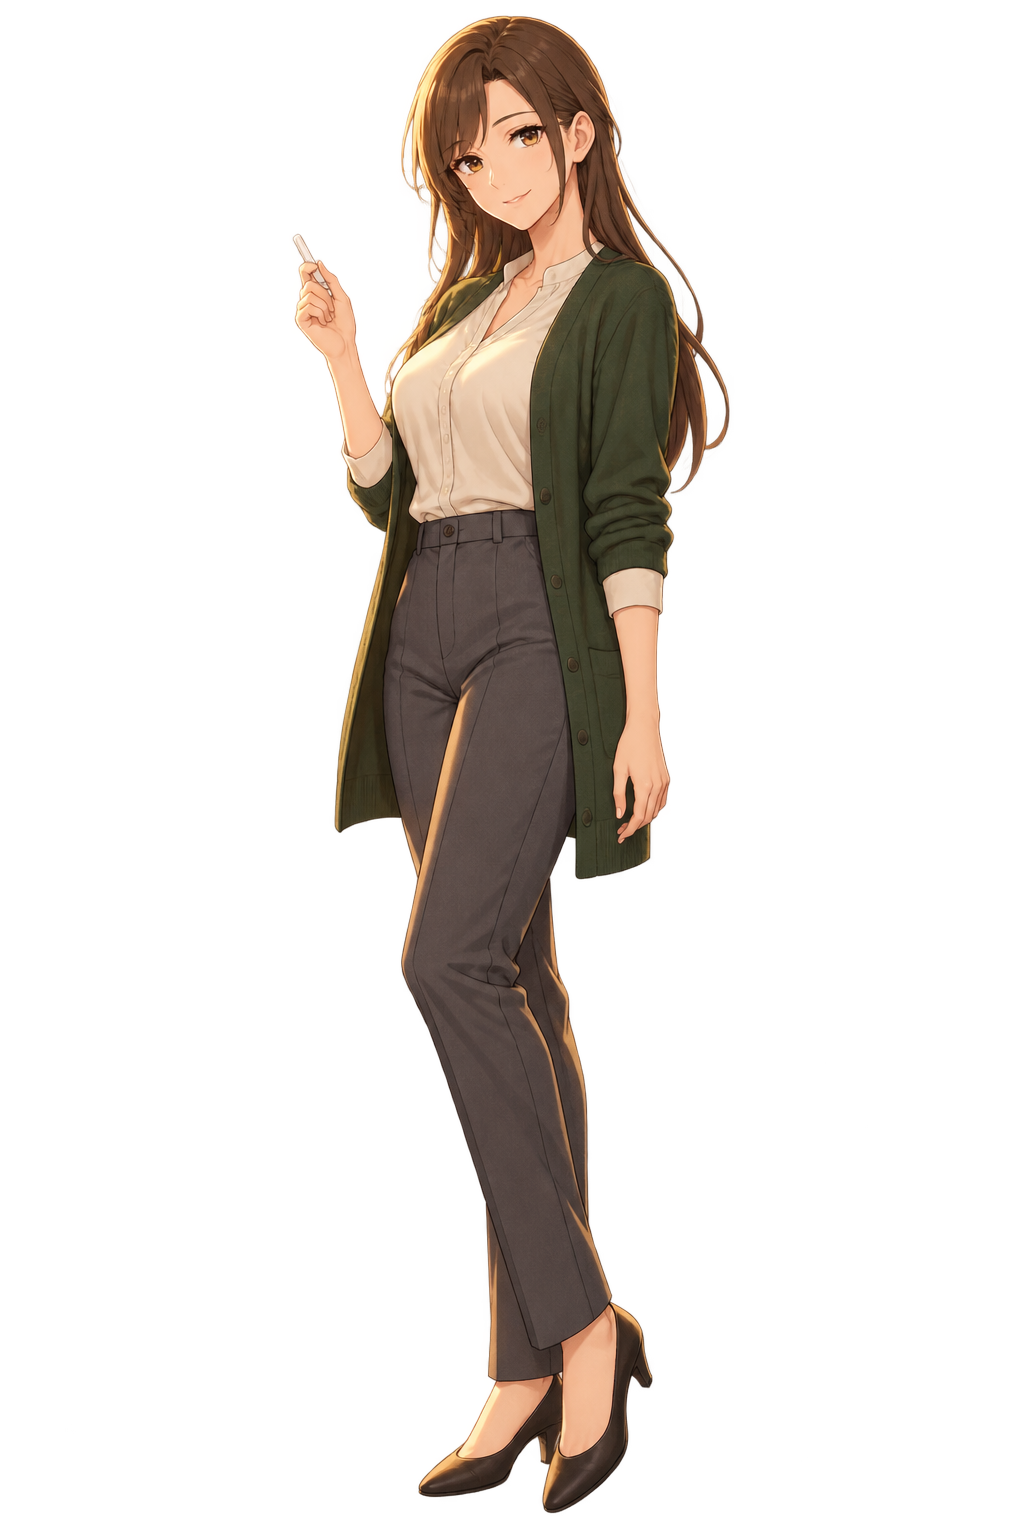
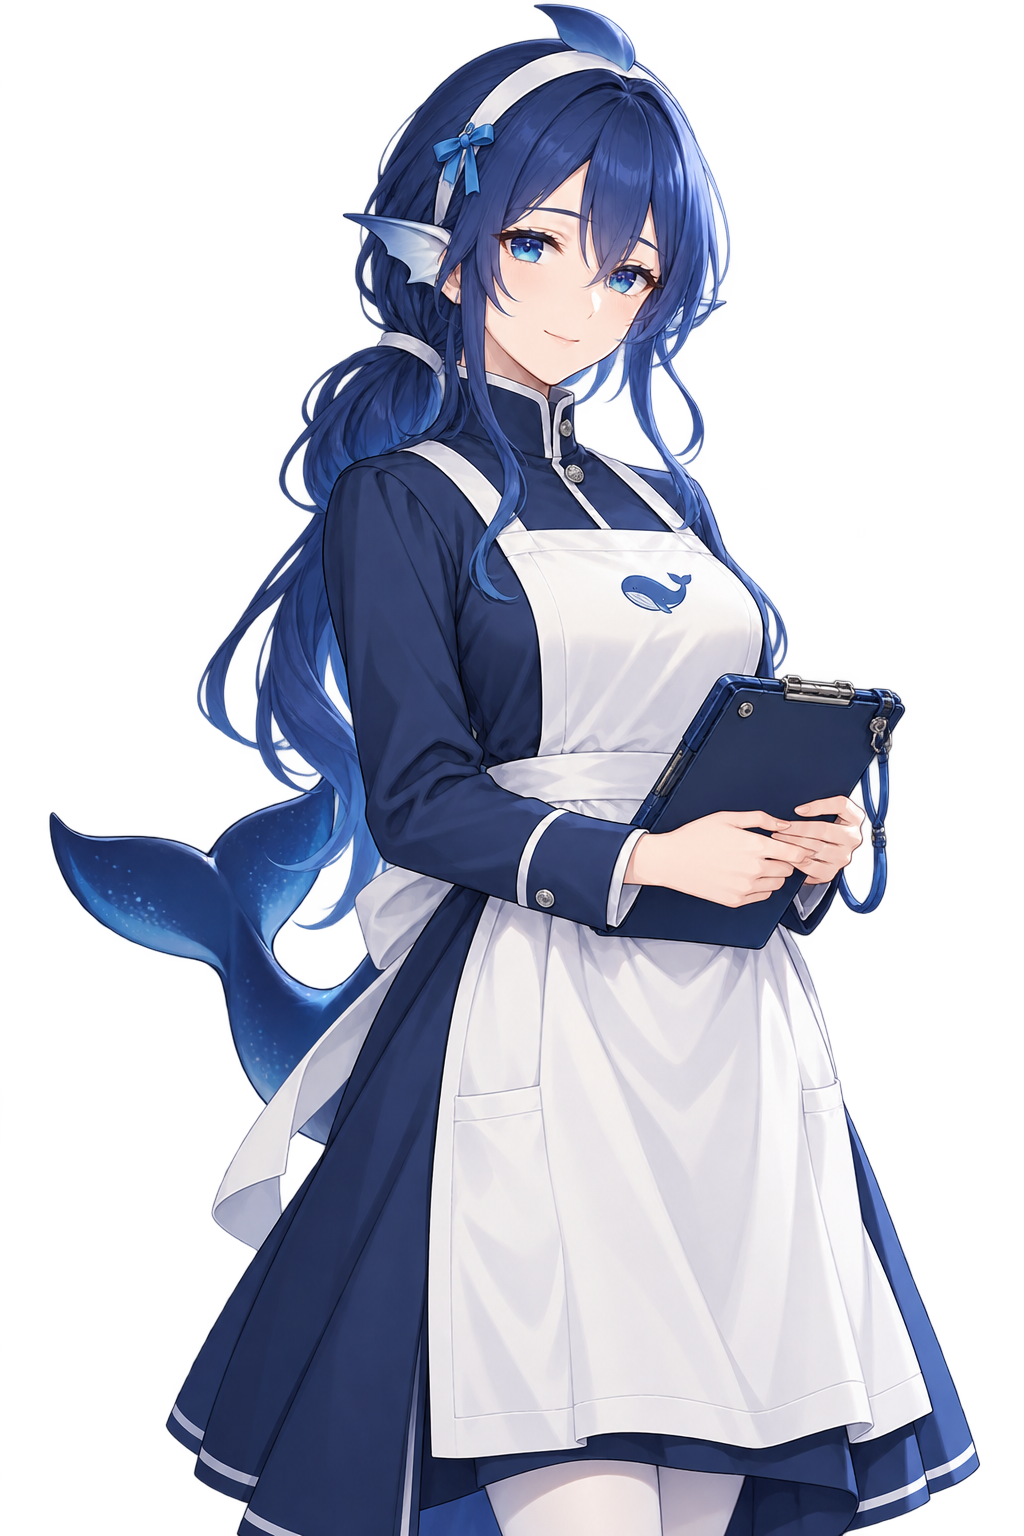
fix(client): 把工作区里改的舞台真正同步进仓库（此前入库的是 9-30 的旧副本）
🔴 这份包的权威源一直在 `开源线/DSH定制/code/clients/classroom-stage-warm/`（工作区），
而仓库里另有一份副本。之前所有改动（花饰、pointer-events、工具降噪、选项去重、
markdown 清理、换角后的立绘与背景）都只落在工作区那份上，`git add` 提交的是仓库副本——
所以「入库」实际上一条都没进去（仓库里的 teacher_gen.png 还是 9-30 的旧图，mtime 未变）。

本次用 rsync 把工作区同步进仓库（排除 shots/、measure/、ornaments/*.png 等可重生成的产物）：
- assets/stage/：classroom_wide.png（潮汐观测站背景）、teacher_gen.png（鲸 · 端庄版立绘）
- lib/client.js：花饰、`.oc` 的 pointer-events、工具行降噪、正文去重、选项去重、stripMarkdown
- lib/index.js：素材 manifest 带 rev（缓存破坏）
- ornaments/：夹具改用 teacher_gen.png；新增 strip 后的构建脚本

哈希核对：仓库与工作区的 teacher_gen.png 均为 ddac3950e33ef39d3bcfec9c036cccac。

diff --git a/clients/classroom-stage-warm/lib/client.js b/clients/classroom-stage-warm/lib/client.js
@@ -108,7 +108,10 @@ window.__ModuleLoader__.load({
   color:#F3E9DA;border-radius:999px;padding:.9vh 2.1vh;font-size:1.5vh;letter-spacing:.04em;cursor:pointer;
   transition:background 160ms,border-color 160ms}
 .stage-warm-root .tool:hover{background:rgba(243,233,218,.18);border-color:rgba(243,233,218,.42)}
-.stage-warm-root .cast{position:absolute;right:6.8vh;bottom:34vh;height:74vh;z-index:3;pointer-events:none;
+.stage-warm-root .cast{position:absolute;right:6.8vh;bottom:44vh;height:54vh;z-index:3;pointer-events:none;
+  /* 🔴 2026-10-19 改（立绘换成半身像后）：原来是 bottom:34vh / height:74vh —— 那是给「全身立绘」的，
+     全身图被纸带盖掉腿正好；换成半身（膝上）后同样的数会把躯干压到纸带下面，只剩一个头。
+     半身像要**贴纸带上沿**：纸带 48vh，所以 bottom 取 47vh（略嵌 1vh 免得悬空），高度取 52vh。 */
   filter:drop-shadow(0 -6px 34px rgba(0,0,0,.42))}
 .stage-warm-root .cast-strip{position:absolute;right:4.2vh;top:9.6vh;z-index:7;display:flex;flex-direction:column;
   gap:.8vh;align-items:flex-end;opacity:0;transition:opacity 240ms ease}
@@ -272,7 +275,7 @@ window.__ModuleLoader__.load({
   text-shadow:0 1px 0 rgba(243,233,218,.75)}
 
 /* ⑤ · 立绘入画：自下而上压暗，让立绘"落进"画面而不是贴上去 */
-.stage-warm-root .cast-wrap{position:absolute;right:12.05vh;bottom:0;z-index:3;pointer-events:none}
+.stage-warm-root .cast-wrap{position:absolute;right:12.05vh;bottom:44vh;z-index:3;pointer-events:none}
 .stage-warm-root .cast-wrap .cast{position:static;right:auto;bottom:auto;display:block}
 .stage-warm-root .cast-wrap::after{content:'';position:absolute;left:-3.7vh;right:-3.7vh;bottom:0;height:34%;
   background:linear-gradient(to top,rgba(10,12,16,.66),rgba(10,12,16,.22) 46%,rgba(10,12,16,0));
@@ -421,6 +424,51 @@ window.__ModuleLoader__.load({
         }
         return hits.length >= 2 ? hits.slice(0, 6) : []
       } catch { return [] }
+    }
+
+    /**
+     * 把正文**末尾连续**的编号清单行裁掉。
+     *
+     * 为什么只裁末尾：舞台会把可解析的编号清单渲染成选项卡片，正文里那份就是重复显示
+     * （实测同一个 1./2./3. 既在正文又在卡片里）。但正文**中间**的编号（教学步骤"第一步…
+     * 第二步…"）是内容，不能动 —— 所以只从末尾往上连续匹配，遇到第一行不是编号就停。
+     *
+     * @param {string} text - 老师这一句的正文
+     * @returns {string} 去掉末尾编号清单后的正文（全被裁则返回空串，由调用方决定怎么显示）
+     */
+    /**
+     * 去掉正文里的 markdown 标记。
+     *
+     * 为什么需要：老师（LLM）输出常带 `**粗体**`、`*斜体*`、行首 `#` 之类，而纸带是按**纯文本**
+     * 渲染的 —— 实测真机上出现 `**"……？"**` 这种星号裸露。本项目的排版纪律是「字重全部 400、
+     * 靠字号字距层级，不靠加粗」，所以正确做法是**把标记去掉**，不是渲染成粗体。
+     *
+     * @param {string} text
+     * @returns {string}
+     */
+    function stripMarkdown(text) {
+      return String(text || '')
+        .replace(/\*\*([^*]+)\*\*/g, '$1')   // **粗体**
+        .replace(/__([^_]+)__/g, '$1')          // __粗体__
+        .replace(/(^|[^*])\*([^*\n]+)\*/g, '$1$2')  // *斜体*
+        .replace(/^\s{0,3}#{1,6}\s+/gm, '')     // 行首 # 标题
+        .replace(/`([^`]+)`/g, '$1')            // 行内代码的反引号
+    }
+
+    function stripTrailingOptionList(text) {
+      const src = String(text || '')
+      if (!src) return src
+      const lines = src.split('\n')
+      const isOptionLine = (l) => /^\s*(?:\d{1,2}[.、)）]|[①②③④⑤⑥⑦⑧⑨])\s*\S/.test(l)
+      let cut = lines.length
+      for (let i = lines.length - 1; i >= 0; i--) {
+        const l = lines[i]
+        if (l.trim() === '') { cut = i; continue }      // 允许清单与正文之间空行
+        if (isOptionLine(l)) { cut = i; continue }
+        break
+      }
+      if (cut >= lines.length) return src                 // 末尾不是清单，原样返回
+      return lines.slice(0, cut).join('\n').trim()
     }
 
     /** 逐字依据：AssistantBlock = text | reasoning | image | tool-call | other */
@@ -978,6 +1026,15 @@ window.__ModuleLoader__.load({
       // 正文区：纸卡内框（.cardframe）＋ 正文行（.line.sans）
       // ★ 2026-09-30：按「真·魔夜 UI」补的造型 —— 正文改无衬线、包进内外双线框
       // ══════════════════════════════════════════════════════════════════
+      // 真实选项：从**最后一条老师正文**里抽编号清单（抽不到就不显示，绝不编）
+      // 🔴 2026-10-19：提前算 —— 因为正文渲染要用它判断"末尾那份清单要不要裁掉"（否则与卡片重复）。
+      const realOptions = (function () {
+        if (props.gallery) return []
+        if (lastTeacherIdx < 0) return []
+        const t = String((msgs[lastTeacherIdx] && msgs[lastTeacherIdx].text) || '')
+        return parseOptions(t)
+      })()
+
       const lines = []
       if (msgs.length === 0) {
         lines.push(H('div', { key: 'empty', className: 'empty' },
@@ -1000,8 +1057,16 @@ window.__ModuleLoader__.load({
         const isCurrent = (i === lastTeacherIdx)
         // 当前老师句带 `cur`（机核判据用；视觉上也就是"最下面那一句"）
         const cls = 'line sans' + (m.role === 'you' ? ' you' : (isCurrent ? ' cur' : ' past'))
+        // 🔴 2026-10-19：选项被渲染成卡片后，正文末尾那份编号清单就是**重复**（实测同一个 1./2./3.
+        //    既出现在正文里又出现在卡片里）。这里把**末尾连续**的编号行裁掉 —— 只裁末尾，
+        //    正文中间的教学步骤（"第一步…第二步…"）不动。
+        let bodyText = m.text
+        if (isCurrent && realOptions.length > 0) {
+          bodyText = stripTrailingOptionList(bodyText)
+        }
+        bodyText = stripMarkdown(bodyText)
         lines.push(H('p', { key: 'm' + i, className: cls },
-          (m.role === 'you' ? '你：' : '') + m.text,
+          (m.role === 'you' ? '你：' : '') + bodyText,
           isCurrent ? H('i', { className: 'adv' }) : null))
       })
 
@@ -1010,13 +1075,6 @@ window.__ModuleLoader__.load({
       //   ① 让造型在真机上看得见（否则 CSS 只是躺在文件里）
       //   ② 类名即契约，下一轮接引擎照此产出
       let optsNode = null
-      // 真实选项：从**最后一条老师正文**里抽编号清单（抽不到就不显示，绝不编）
-      const realOptions = (function () {
-        if (props.gallery) return []
-        if (lastTeacherIdx < 0) return []
-        const t = String((msgs[lastTeacherIdx] && msgs[lastTeacherIdx].text) || '')
-        return parseOptions(t)
-      })()
 
       // 真实选项 → 与样张**同一套类名**（.orn / .opts / .oc），但状态由真实交互驱动：
       //   cur = 键盘当前项 ｜ picked = 已点过的 ｜ picked sent = 已点且已送出
@@ -1276,7 +1334,8 @@ window.__ModuleLoader__.load({
         if (j) {
           if (j.settings) state.props.settings = Object.assign({}, DEFAULTS, j.settings)
           const map = {}
-          for (const a of (j.assets || [])) map[a.name] = ROUTE + '/assets/' + a.name
+          // 带 `?v=<rev>` 做缓存破坏：素材被替换（mtime 变）后 URL 跟着变，浏览器才会重新拉。
+          for (const a of (j.assets || [])) map[a.name] = ROUTE + '/assets/' + a.name + (a.rev ? ('?v=' + a.rev) : '')
           state.props.assets = map
         }
         render()

diff --git a/clients/classroom-stage-warm/ornaments/fixture.html b/clients/classroom-stage-warm/ornaments/fixture.html
@@ -42,7 +42,10 @@
   color:#F3E9DA;border-radius:999px;padding:.9vh 2.1vh;font-size:1.5vh;letter-spacing:.04em;cursor:pointer;
   transition:background 160ms,border-color 160ms}
 .stage-warm-root .tool:hover{background:rgba(243,233,218,.18);border-color:rgba(243,233,218,.42)}
-.stage-warm-root .cast{position:absolute;right:6.8vh;bottom:34vh;height:74vh;z-index:3;pointer-events:none;
+.stage-warm-root .cast{position:absolute;right:6.8vh;bottom:44vh;height:54vh;z-index:3;pointer-events:none;
+  /* 🔴 2026-10-19 改（立绘换成半身像后）：原来是 bottom:34vh / height:74vh —— 那是给「全身立绘」的，
+     全身图被纸带盖掉腿正好；换成半身（膝上）后同样的数会把躯干压到纸带下面，只剩一个头。
+     半身像要**贴纸带上沿**：纸带 48vh，所以 bottom 取 47vh（略嵌 1vh 免得悬空），高度取 52vh。 */
   filter:drop-shadow(0 -6px 34px rgba(0,0,0,.42))}
 .stage-warm-root .cast-strip{position:absolute;right:4.2vh;top:9.6vh;z-index:7;display:flex;flex-direction:column;
   gap:.8vh;align-items:flex-end;opacity:0;transition:opacity 240ms ease}
@@ -130,6 +133,9 @@
 .stage-warm-root .opts{display:flex;flex-direction:column;gap:0.45vh;margin-top:0.1vh;
   padding:0 3.9vh}
 .stage-warm-root .oc{position:relative;display:flex;align-items:center;gap:1.5vh;height:4.45vh;padding:0 1.85vh;
+  /* 🔴 2026-10-19：舞台根是 pointer-events:none，交互元素必须各自显式打开 ——
+     这一条漏了，导致选项卡片**渲染出来但点不动**（实测点击后 .oc.picked.sent 计数恒为 0）。 */
+  pointer-events:auto;
   border:2px solid var(--hair-w);border-radius:10px;cursor:pointer;
   background:
     linear-gradient(180deg,rgba(255,255,255,.055),rgba(255,255,255,0) 46%,rgba(0,0,0,.10)),
@@ -203,7 +209,7 @@
   text-shadow:0 1px 0 rgba(243,233,218,.75)}
 
 /* ⑤ · 立绘入画：自下而上压暗，让立绘"落进"画面而不是贴上去 */
-.stage-warm-root .cast-wrap{position:absolute;right:12.05vh;bottom:0;z-index:3;pointer-events:none}
+.stage-warm-root .cast-wrap{position:absolute;right:12.05vh;bottom:44vh;z-index:3;pointer-events:none}
 .stage-warm-root .cast-wrap .cast{position:static;right:auto;bottom:auto;display:block}
 .stage-warm-root .cast-wrap::after{content:'';position:absolute;left:-3.7vh;right:-3.7vh;bottom:0;height:34%;
   background:linear-gradient(to top,rgba(10,12,16,.66),rgba(10,12,16,.22) 46%,rgba(10,12,16,0));
@@ -295,7 +301,7 @@ html,body{margin:0;width:100%;height:100%;background:#0a0a0a}
   <div class="corner br"><svg viewBox="0 0 40 40" class="corner-svg">
   <path d="M1 36 L1 8 Q1 1 8 1 L36 1"/><path d="M6 34 L6 9 Q6 6 9 6 L34 6"/>
   <path d="M12,12 C12.2,12 12.7,11.6 13,12 C13.3,12.4 13.3,13.5 13.6,14.1 C13.9,14.8 14.4,15.4 14.8,15.9 C15.3,16.4 15.9,16.8 16.5,17.2 C17,17.5 17.7,17.7 18.3,17.8 C18.9,17.9 19.6,17.9 20.2,17.8 C20.8,17.7 21.4,17.5 21.9,17.3 C22.4,17 22.9,16.6 23.3,16.3 C23.7,15.9 24,15.4 24.2,14.9 C24.5,14.5 24.6,13.9 24.7,13.5 C24.7,13 24.7,12.5 24.6,12 C24.5,11.5 24.4,11.1 24.1,10.7 C23.9,10.3 23.6,10 23.3,9.7 C23,9.5 22.7,9.2 22.3,9.1 C22,8.9 21.6,8.9 21.2,8.8 C20.9,8.8 20.5,8.9 20.2,9 C19.9,9 19.6,9.2 19.3,9.4 C19.1,9.5 18.9,9.8 18.7,10 C18.6,10.2 18.5,10.5 18.4,10.7 C18.4,10.9 18.3,11.2 18.4,11.4 C18.4,11.6 18.5,11.8 18.5,12 C18.6,12.2 18.8,12.3 18.9,12.4 C19,12.5 19.2,12.6 19.3,12.6"/><path d="M12,12 C12,12.2 11.6,12.7 12,13 C12.4,13.3 13.5,13.3 14.1,13.6 C14.8,13.9 15.4,14.4 15.9,14.8 C16.4,15.3 16.8,15.9 17.2,16.5 C17.5,17 17.7,17.7 17.8,18.3 C17.9,18.9 17.9,19.6 17.8,20.2 C17.7,20.8 17.5,21.4 17.3,21.9 C17,22.4 16.6,22.9 16.3,23.3 C15.9,23.7 15.4,24 14.9,24.2 C14.5,24.5 13.9,24.6 13.5,24.7 C13,24.7 12.5,24.7 12,24.6 C11.5,24.5 11.1,24.4 10.7,24.1 C10.3,23.9 10,23.6 9.7,23.3 C9.5,23 9.2,22.7 9.1,22.3 C8.9,22 8.9,21.6 8.8,21.2 C8.8,20.9 8.9,20.5 9,20.2 C9,19.9 9.2,19.6 9.4,19.3 C9.5,19.1 9.8,18.9 10,18.7 C10.2,18.6 10.5,18.5 10.7,18.4 C10.9,18.4 11.2,18.3 11.4,18.4 C11.6,18.4 11.8,18.5 12,18.5 C12.2,18.6 12.3,18.8 12.4,18.9 C12.5,19 12.6,19.2 12.6,19.3"/></svg></div>
-  <div class="cast-wrap"><img class="cast" src="../assets/stage/student_f.png" alt=""></div>
+  <div class="cast-wrap"><img class="cast" src="../assets/stage/teacher_gen.png" alt=""></div>
   <div class="band">
     <div class="band-top"></div>
     <div class="band-core">

diff --git a/clients/classroom-stage-warm/lib/index.js b/clients/classroom-stage-warm/lib/index.js
@@ -161,7 +161,9 @@ function listAssets() {
       const ext = path.extname(ent.name).toLowerCase()
       if (!MIME[ext]) continue
       const stat = fs.statSync(path.join(ASSET_DIR, ent.name))
-      out.push({ name: ent.name, bytes: stat.size, mime: MIME[ext] })
+      // 🔴 rev＝mtime：客户端会把它拼成 `?v=<rev>`。换图后 mtime 变 → URL 变 → 浏览器不会拿旧缓存。
+      //    （实测踩过：直接把 teacher_gen.png 换掉，页面还在显示旧立绘，因为 URL 没变。）
+      out.push({ name: ent.name, bytes: stat.size, mime: MIME[ext], rev: Math.round(stat.mtimeMs) })
     }
   } catch (err) {
     noteWarning('素材目录读取失败：' + String((err && err.message) || err))
